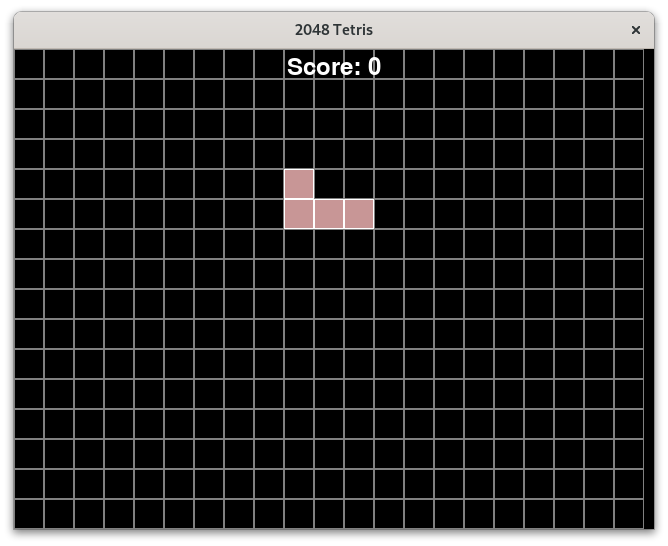
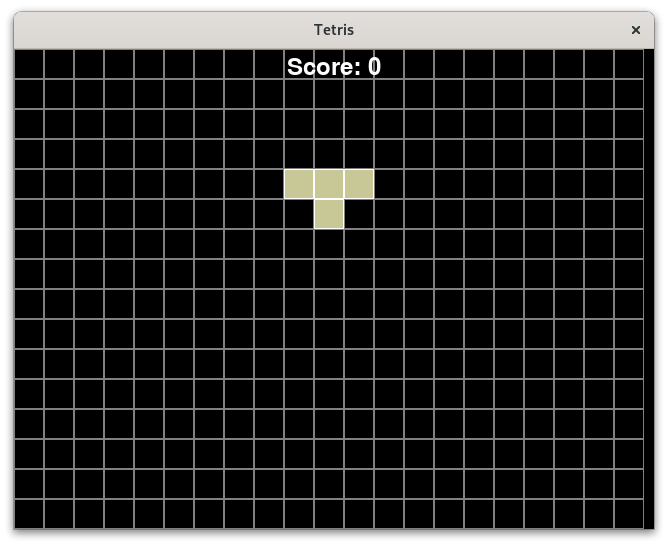
Tetris: change window title
* whoops

Changed region(s): [[0.4192, 0.3114, 0.5689, 0.4359], [0.4491, 0.0311, 0.5689, 0.0623]]

diff --git a/main.py b/main.py
@@ -48,7 +48,7 @@ TETROMINO_COLORS = [
 # Initialize Pygame
 pygame.init()
 screen = pygame.display.set_mode((SCREEN_WIDTH, SCREEN_HEIGHT))
-pygame.display.set_caption("2048 Tetris")
+pygame.display.set_caption("Tetris")
 clock = pygame.time.Clock()
 font = pygame.font.SysFont(None, FONT_SIZE)
 
